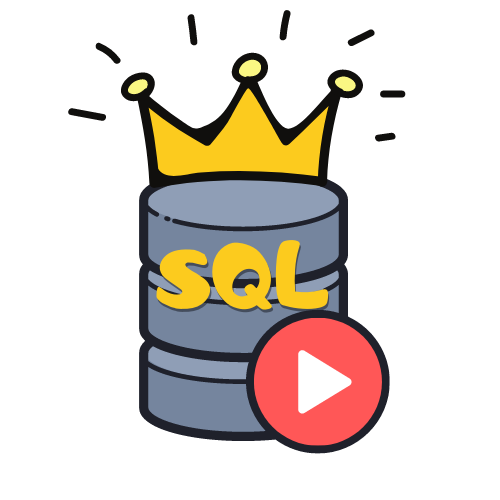
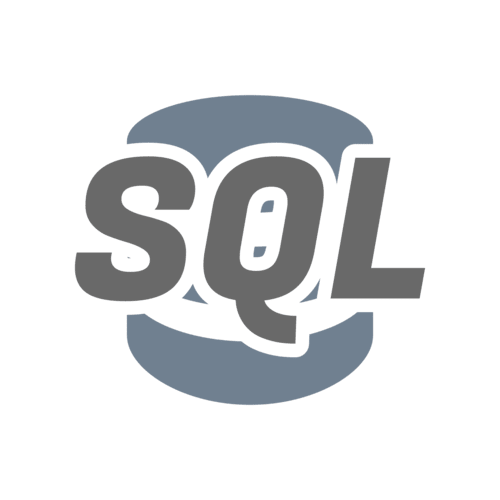
docs: library updated

diff --git a/src/component/MenuOptions.tsx b/src/component/MenuOptions.tsx
@@ -67,7 +67,7 @@ For now you will play with single database
   const sendMailFeedback = (): void => {
     try {
       Linking.openURL(
-        'mailto:hi@creativeshi.com?subject=SQL%20Playground%20Feedback',
+        'mailto:mateenchitralidev@gmail.com?subject=SQL%20Playground%20Feedback',
       );
     } catch (e) {
       console.error(e);
@@ -76,7 +76,7 @@ For now you will play with single database
 
   const openPrivacy = (): void => {
     try {
-      Linking.openURL('https://sqlplay.net/privacy');
+      Linking.openURL('https://www.termsfeed.com/live/44e09b07-c44e-44aa-aab8-1549b2cc88ec');
     } catch (e) {
       console.error(e);
     }

diff --git a/src/component/GoPremium.tsx b/src/component/GoPremium.tsx
@@ -181,7 +181,7 @@ const GoPremium: FC<Props> = ({
             <View style={styles.header}>
               <Image
                 style={styles.logo}
-                accessibilityLabel="SQL Play premium logo"
+                accessibilityLabel="SQL Compiler premium logo"
                 source={require('../images/sqlpro.png')}
               />
               <Text style={styles.title}>

diff --git a/src/utils/utils.tsx b/src/utils/utils.tsx
@@ -1,5 +1,6 @@
 import {Platform} from 'react-native';
-import rnTextSize from 'react-native-text-size';
+// import rnTextSize from 'react-native-text-size';
+import rnTextSize from 'react-native-text-size-latest';
 import SInfo from 'react-native-sensitive-info';
 import RNIap, {ProductPurchase, Subscription} from 'react-native-iap';
 import {GAD_IOS, GAD_ANDROID} from '@env';

diff --git a/src/component/AppBar.tsx b/src/component/AppBar.tsx
@@ -24,7 +24,7 @@ const AppBar: React.FC<Props> = ({
   return (
     <View style={styles.appBar} accessibilityLabel="app bar">
       <Text style={styles.appBarTxt} accessibilityLabel="SQL Play">
-        SQL play ground
+        SQL Compiler
       </Text>
       <View style={styles.optionContainer}>
         <SearchBox setInputValue={setInputValue} />

diff --git a/android/app/src/main/java/com/sqlplay/MainActivity.kt b/android/app/src/main/java/com/sqlplay/MainActivity.kt
@@ -1,4 +1,4 @@
-package com.sql_lite
+package com.sql_compiler
 
 import com.facebook.react.ReactActivity
 import com.facebook.react.ReactActivityDelegate

diff --git a/android/app/src/main/java/com/sqlplay/MainApplication.kt b/android/app/src/main/java/com/sqlplay/MainApplication.kt
@@ -1,4 +1,4 @@
-package com.sql_lite
+package com.sql_compiler
 
 import android.app.Application
 import com.facebook.react.PackageList

diff --git a/scripts/manage_app_settings.py b/scripts/manage_app_settings.py
@@ -22,10 +22,11 @@ import os
 # Default app bundle ID: com.myreserp.paragon.fm.app (play store paragon bundle id do not change this)
 
 # Existing bundle ID to be replaced
-original_bundle_id = "com.sql_playground"
+original_bundle_id = "com.sqlplayground"
 
 # Desired bundle ID to generate APK for
-new_bundle_id = "com.sql_lite"
+new_bundle_id = "com.sql_compiler"
+
 
 # -----------------------------------------------
 
